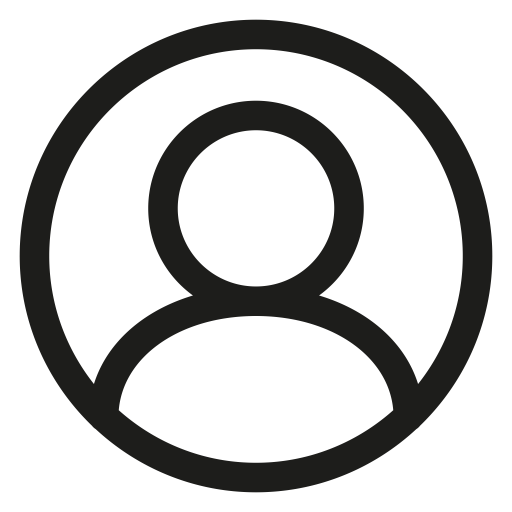
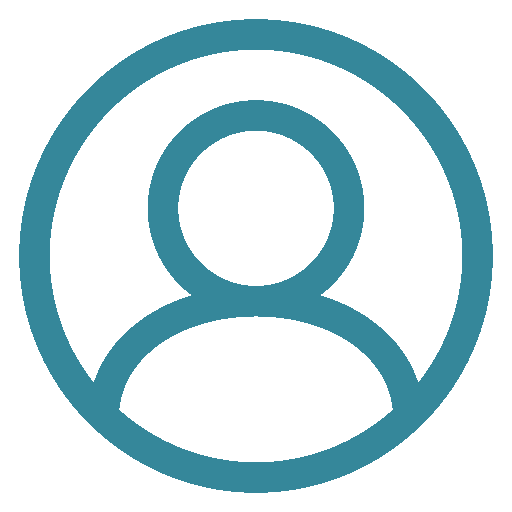
Add files via upload

Changed region(s): [[0.0312, 0.0312, 0.9688, 0.9688]]

diff --git a/index.html b/index.html
@@ -12,8 +12,21 @@
         <!-- NOTE: Main Content -->
         <div class="col-sm-8  main_content">
           <div class="Career">
-            <img src="images/profile.png" alt="">
+            <img src="images/profile.png" alt="" class="Pro">
             <h2 class="career_profile">Career Profile</h2>
+            <p>Lorem ipsum dolor sit amet, consectetur adipisicing elit, sed do eiusmod tempor incididunt ut labore et dolore magna aliqua. Ut enim ad minim veniam, quis nostrud exercitation ullamco laboris nisi ut aliquip ex ea commodo consequat. Duis aute irure dolor in reprehenderit in voluptate velit esse cillum dolore eu fugiat nulla pariatur. Excepteur sint occaecat cupidatat non proident, sunt in culpa qui officia deserunt mollit anim id est laborum.</p>
+          </div>
+          <div class="Experiences">
+            <img src="images/Experience.png" alt="" class="Exp">
+            <h2>Experiences</h2>
+            <div class="htmlcss_exp col-xs-12">
+              <div class="col-xs-10 header_exp">
+                <h3>HTML and CSS layout</h3>
+              </div>
+              <div class="col-xs-2 right_date">
+                <h4>present</h4>
+              </div>
+            </div>
           </div>
         </div>
         <!-- NOTE: Right Sidebar -->

diff --git a/style.css b/style.css
@@ -8,15 +8,35 @@ div.Page{
 }
 /* ------------------------NOTE: main_content ---------------------------*/
 .main_content{
-  padding: 50px;
+padding: 20px;
 }
-.main_content .Career img{
+.main_content .Career, .main_content .Experiences{padding: 30px;}
+.main_content .Career img.Pro, .main_content .Experiences img.Exp{
   width: 30px;
   padding: 0;
   margin: 0;
+  vertical-align: 0px;
 }
-.main_content .Career h2{
-  display: inline;
+.main_content .Career h2, .main_content .Experiences h2{
+  display: inline-flex;
+  padding: 0;
+  margin: 0;
+  line-height: 1;
+  vertical-align: 5px;
+  font-weight: 750;
+  color: #35879a;
+}
+.main_content .Experiences .htmlcss_exp, .main_content .Experiences .htmlcss_exp .header_exp, .main_content .Experiences .htmlcss_exp .right_date {
+  margin: 0;
+  padding: 0;
+}
+.main_content .Experiences .htmlcss_exp .header_exp h3{
+  font-weight: 700;
+  color: #333333;
+}
+.main_content .Experiences .htmlcss_exp .right_date h4{
+  color: #a4aac3;
+  font-size: 1rem;
 }
 /* ------------------------NOTE: right_sidebar ---------------------------*/
 .right_sidebar{
